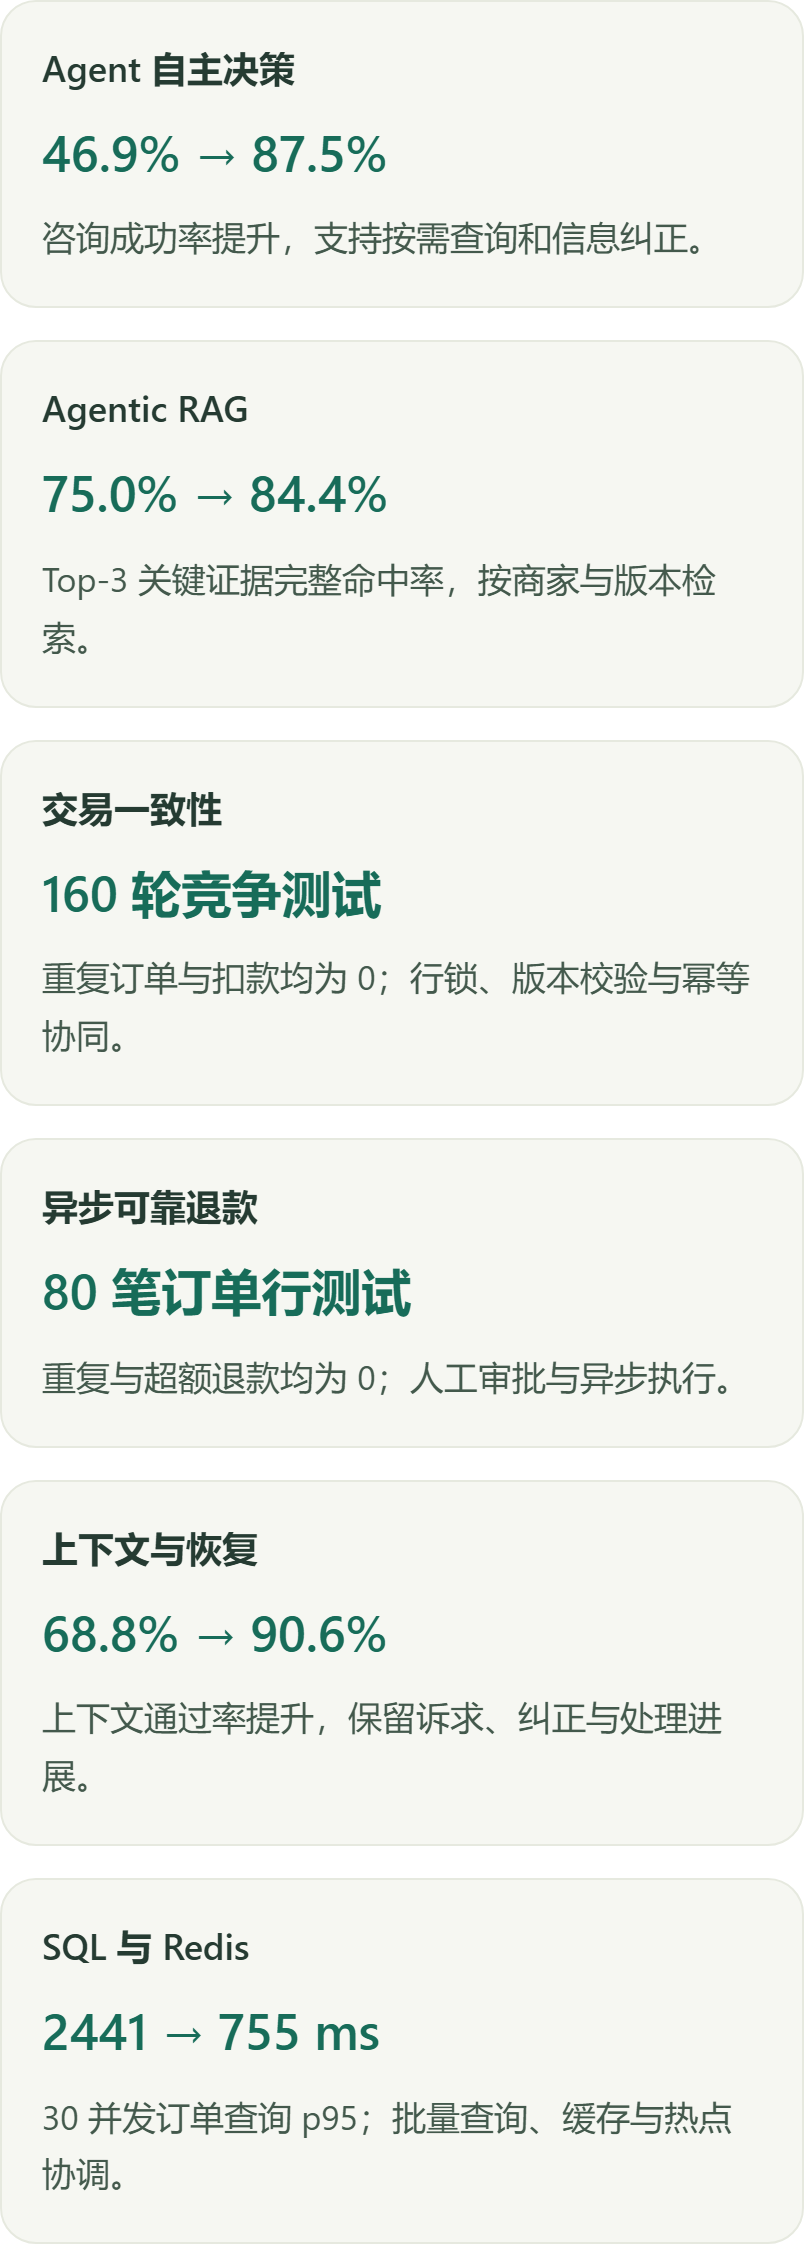
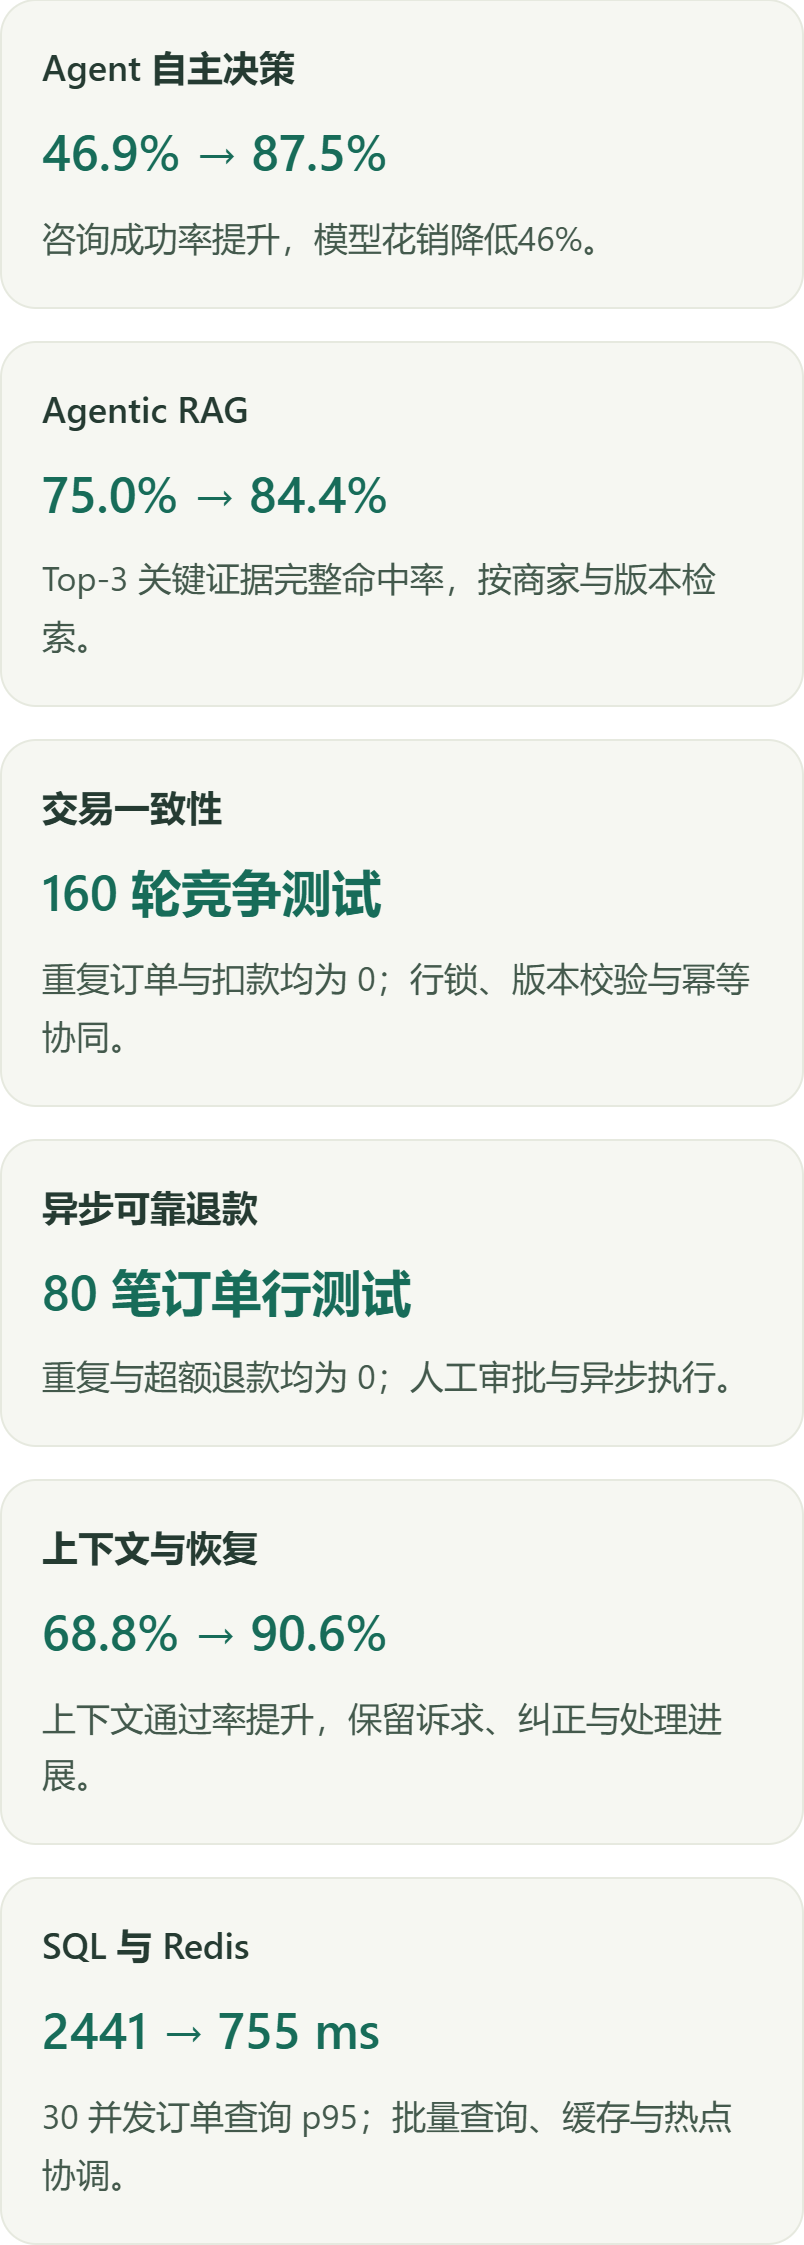
更新README技术栈Jev与首卡模型花销说明

diff --git a/README.md b/README.md
@@ -28,7 +28,7 @@ https://github.com/user-attachments/assets/34304069-e2da-4552-ac25-2443e1b759d3
 
 <picture>
   <source media="(max-width: 600px)" srcset="docs/assets/readme/tech-stack-mobile.png">
-  <img src="docs/assets/readme/tech-stack.png" alt="Vue 3、TypeScript、Vite、SSE；Java 21、Spring Boot、MyBatis，Gateway、Case、Commerce 三个微服务；Python、FastAPI、AgentScope、MCP、Agent Harness；pgvector、BGE、BM25、RRF、CrossEncoder 检索与评测；RocketMQ、Outbox/Inbox、Redis、Redisson、Lua；MySQL、PostgreSQL、Docker。" width="100%">
+  <img src="docs/assets/readme/tech-stack.png" alt="Vue 3、TypeScript、Vite、SSE；Java 21、Spring Boot、MyBatis，Gateway、Case、Commerce 三个微服务；Python、FastAPI、AgentScope、Jev、MCP、Agent Harness；pgvector、BGE、BM25、RRF、CrossEncoder 检索与评测；RocketMQ、Outbox/Inbox、Redis、Redisson、Lua；MySQL、PostgreSQL、Docker。" width="100%">
 </picture>
 
 ## 微服务架构
@@ -39,7 +39,7 @@ https://github.com/user-attachments/assets/34304069-e2da-4552-ac25-2443e1b759d3
 
 <picture>
   <source media="(max-width: 600px)" srcset="docs/assets/readme/core-design-mobile.png">
-  <img src="docs/assets/readme/core-design.png" alt="Agent 自主决策：咨询成功率46.9%→87.5%；Agentic RAG：Top-3关键证据完整命中率75.0%→84.4%；交易一致性：160轮竞争测试，重复订单与扣款均为0；异步可靠退款：80笔订单行测试，重复与超额退款均为0；上下文与恢复：上下文通过率68.8%→90.6%；SQL与Redis：30并发订单查询p95从2441降至755ms。" width="100%">
+  <img src="docs/assets/readme/core-design.png" alt="Agent 自主决策：咨询成功率46.9%→87.5%，模型花销降低46%；Agentic RAG：Top-3关键证据完整命中率75.0%→84.4%；交易一致性：160轮竞争测试，重复订单与扣款均为0；异步可靠退款：80笔订单行测试，重复与超额退款均为0；上下文与恢复：上下文通过率68.8%→90.6%；SQL与Redis：30并发订单查询p95从2441降至755ms。" width="100%">
 </picture>
 
 ## 快速开始
